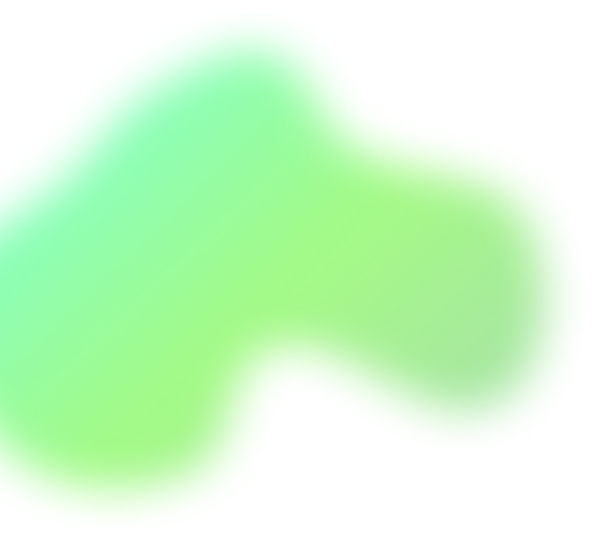
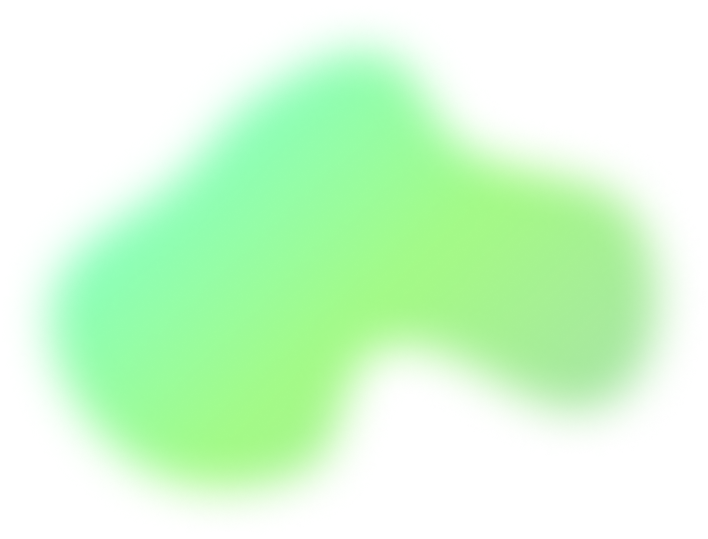
fixed about-page bg issue

diff --git a/style.css b/style.css
@@ -3663,7 +3663,7 @@ main {
 .hero-about .section-header__gradient {
 	z-index: -1;
 	filter: unset;
-	left: -14%;
+	left: -20%;
 	bottom: 40px;
 	top: auto;
 }

diff --git a/sass/layouts/_hero-v3.scss b/sass/layouts/_hero-v3.scss
@@ -2,7 +2,7 @@
   .section-header__gradient {
     z-index: -1;
     filter: unset;
-    left: -14%;
+    left: -20%;
     bottom: 40px;
     top: auto;
 
